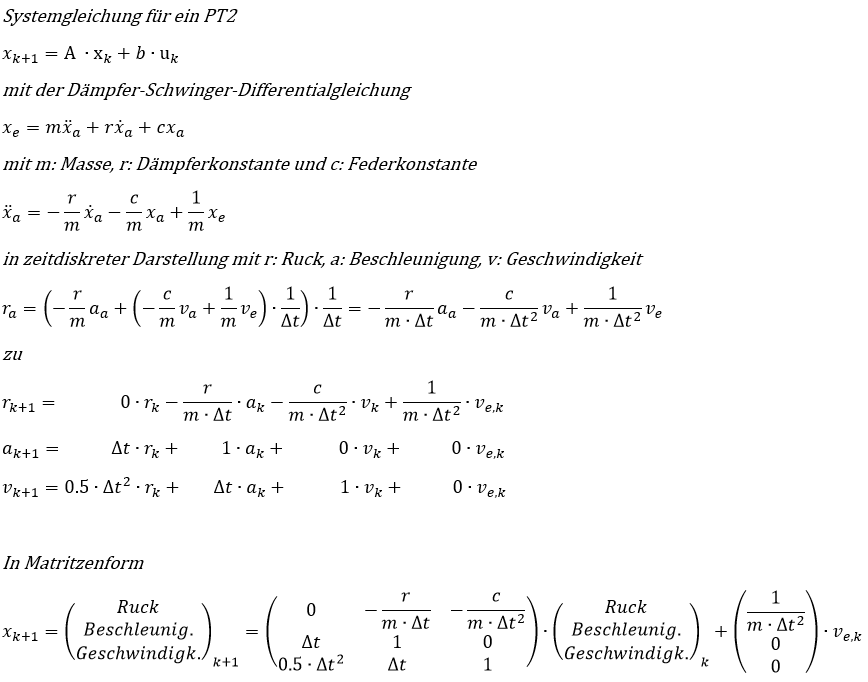
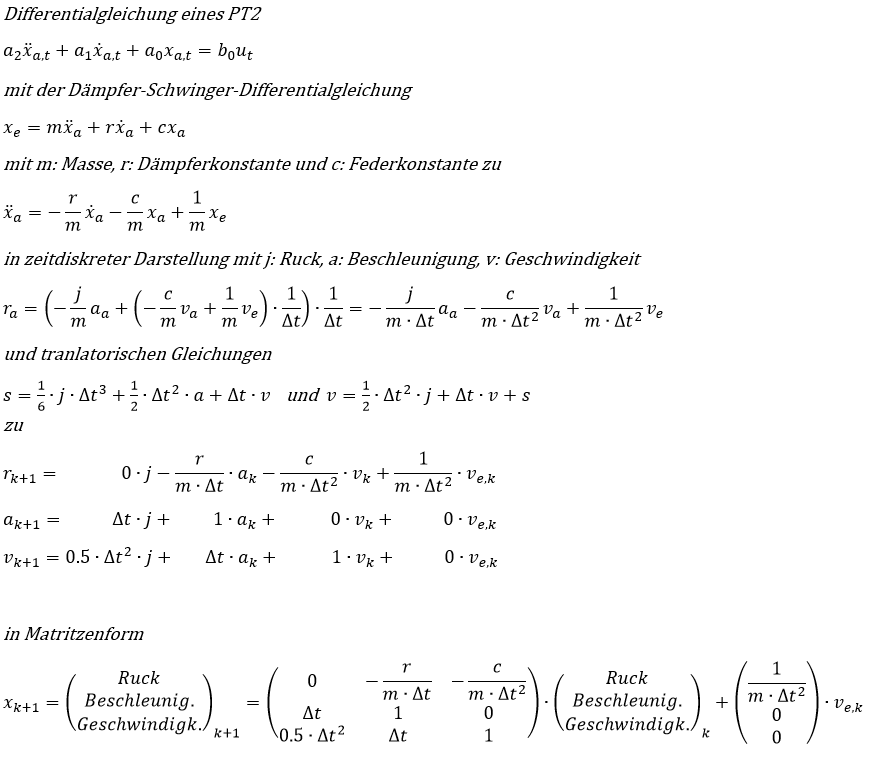
Tranlatorische Gleichungen in die Beschreibung eingefügt

diff --git a/analysis/data_analysis.py b/analysis/data_analysis.py
@@ -8,9 +8,11 @@ import numpy as np
 from matplotlib import pyplot as plt
 import pandas as pd
 
+# Datei einlesen
 pd_data = pd.read_csv("./analysis/log_data.csv")
 print(pd_data.head(5))
 
+# Daten einlesen
 time_stamps = pd_data.time.to_numpy()
 jerk = pd_data.jerk.to_numpy()
 acc = pd_data.acceleration.to_numpy()
@@ -19,6 +21,7 @@ measurements = pd_data.velocity_m.to_numpy()
 velocities = pd_data.velocity_f.to_numpy()
 positions = pd_data.position.to_numpy()
 
+# Plot PT2
 cm = 1/2.54
 fig, (ax1, ax2, ax3) = plt.subplots(3, figsize=(25*cm, 20*cm))
 plt.tight_layout(pad=12.0*cm, h_pad=5.0*cm)
@@ -26,7 +29,7 @@ fig.suptitle('PT2-Modell')
 ax1.set_title('Ruck')
 ax2.set_title('Beschleunigung', pad=6.0)
 ax3.set_title('Geschwindigkeit', pad=6.0)
-ax1.set(ylabel='r [m/s^3]')
+ax1.set(ylabel='j [m/s^3]')
 ax2.set(ylabel='a [m/s^2]')
 ax3.set(xlabel='Abtastwerte [s]', ylabel='v [m/s]')
 ax1.plot(time_stamps, jerk, color='red')
@@ -35,12 +38,7 @@ ax3.plot(time_stamps, vel, color='green')
 fig.align_labels()
 plt.show()
 
-plt.plot(time_stamps, positions)
-plt.xlabel('Abtastwerte [s]')
-plt.ylabel('Position [m]')
-plt.title('Zugposition')
-plt.show()
-
+# Plot Übertragungsfunktion der Geschwindigkeit
 plt.plot(time_stamps, measurements, color='gray', linestyle=':')
 plt.plot(time_stamps, velocities, color='red')
 plt.legend(['Gemessene Geschwindigkeit', 'Gefilterte Geschwindigkeit'])
@@ -48,4 +46,13 @@ plt.xlabel('Abtastwerte [s]')
 plt.ylabel('Geschwindigkeit [m/s]')
 plt.title('Zuggeschwindigkeit')
 plt.show()
+
+# Plot Schätzung der Position
+plt.plot(time_stamps, positions)
+plt.xlabel('Abtastwerte [s]')
+plt.ylabel('Position [m]')
+plt.title('Zugposition')
+plt.show()
+
+
 

diff --git a/README.md b/README.md
@@ -354,6 +354,10 @@ Das Programm speichert während des Testlaufs Daten:
 
 in die Messdatei log_data.csv. Das Python-Script **data_analysis.py** stellt die Daten grafisch dar:
 
+*PT2-Modell: Die Geschwindigkeit ist die Übertragungsfunktion und die Beschleunigung die Gewichtsfuntion.*
+
+![Zugposition](./images/pt2_fig.png)
+
 
 ![Zugposition](./images/velocity_fig.png)
 
